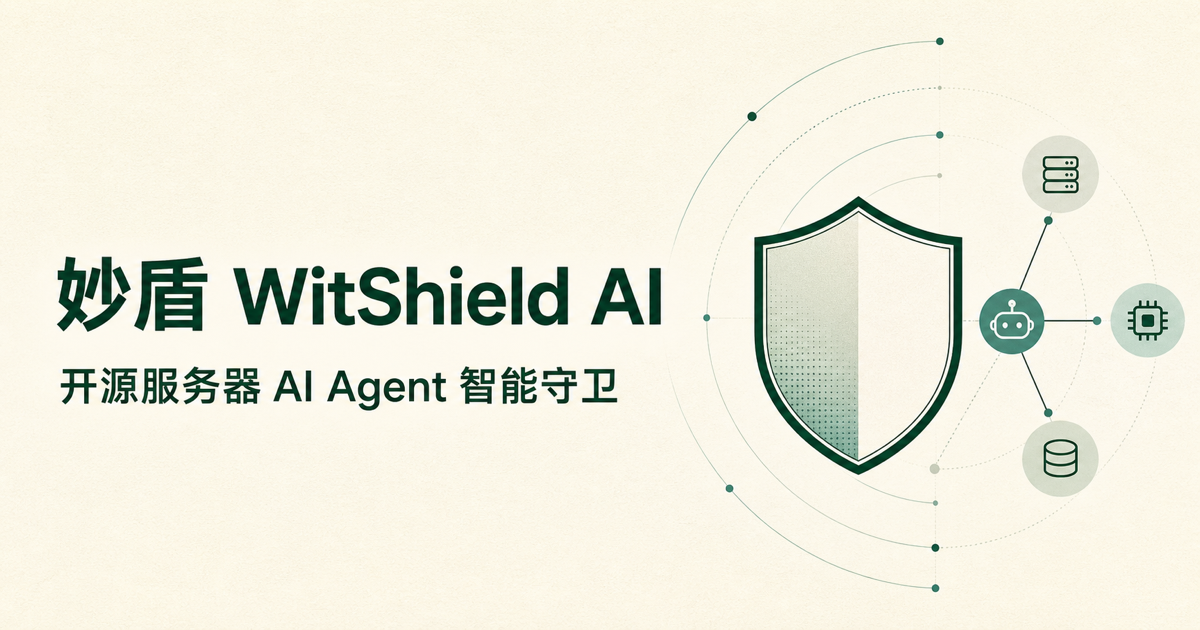
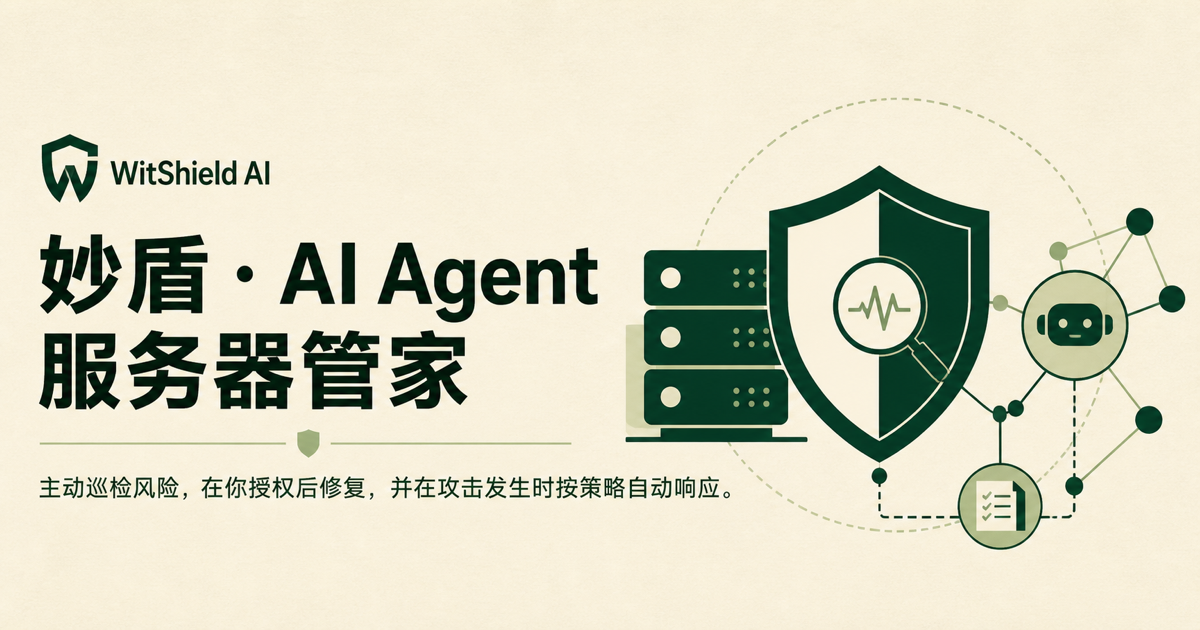
chore: adopt AI Agent server manager branding (#12)

diff --git a/web/app/witshield-app.tsx b/web/app/witshield-app.tsx
@@ -209,7 +209,7 @@ export function WitShieldApp() {
       <section className="workspace">
         <header className="topbar">
           <div>
-            <p className="eyebrow">开源服务器 AI Agent 智能守卫</p>
+            <p className="eyebrow">AI Agent 服务器管家</p>
             <h1>{sectionTitle(section)}</h1>
           </div>
           <div className="top-actions">
@@ -865,7 +865,7 @@ function AuthScreen({ mode, onReady }: { mode: 'setup' | 'login'; onReady: () =>
     catch (cause) { setError(cause instanceof Error ? cause.message : '操作失败'); }
     finally { setBusy(false); }
   }
-  return <main className="auth-shell"><section className="auth-card"><div className="auth-brand"><span className="brand-mark"><ShieldCheck size={20} /></span><div><strong>妙盾</strong><small>WitShield AI</small></div></div><p className="eyebrow">开源服务器 AI Agent 智能守卫</p><h1>{mode === 'setup' ? '创建唯一管理员' : '欢迎回来'}</h1><p className="auth-intro">{mode === 'setup' ? '控制台首版采用单管理员模式。完成初始化后即可连接第一台服务器。' : '登录你的自建妙盾控制台。'}</p><form onSubmit={submit}><label><span>管理员名称</span><input value={username} onChange={(event) => setUsername(event.target.value)} autoComplete="username" /></label><label><span>密码</span><input type="password" value={password} onChange={(event) => setPassword(event.target.value)} autoComplete={mode === 'setup' ? 'new-password' : 'current-password'} /></label>{mode === 'setup' && <><label><span>再次输入密码</span><input type="password" value={confirm} onChange={(event) => setConfirm(event.target.value)} autoComplete="new-password" /></label><label><span>初始化令牌（如安装程序要求）</span><input type="password" value={bootstrapToken} onChange={(event) => setBootstrapToken(event.target.value)} /></label></>}{error && <p className="form-error">{error}</p>}<button className="primary-button auth-submit" disabled={busy}>{busy ? <LoaderCircle className="spin" size={16} /> : <LockKeyhole size={16} />}{mode === 'setup' ? '完成安全初始化' : '登录控制台'}</button></form><small className="auth-footnote">凭据只保存在你的服务器；妙盾没有公共账号中心。</small></section></main>;
+  return <main className="auth-shell"><section className="auth-card"><div className="auth-brand"><span className="brand-mark"><ShieldCheck size={20} /></span><div><strong>妙盾</strong><small>WitShield AI</small></div></div><p className="eyebrow">AI Agent 服务器管家</p><h1>{mode === 'setup' ? '创建唯一管理员' : '欢迎回来'}</h1><p className="auth-intro">{mode === 'setup' ? '控制台首版采用单管理员模式。完成初始化后即可连接第一台服务器。' : '登录你的自建妙盾控制台。'}</p><form onSubmit={submit}><label><span>管理员名称</span><input value={username} onChange={(event) => setUsername(event.target.value)} autoComplete="username" /></label><label><span>密码</span><input type="password" value={password} onChange={(event) => setPassword(event.target.value)} autoComplete={mode === 'setup' ? 'new-password' : 'current-password'} /></label>{mode === 'setup' && <><label><span>再次输入密码</span><input type="password" value={confirm} onChange={(event) => setConfirm(event.target.value)} autoComplete="new-password" /></label><label><span>初始化令牌（如安装程序要求）</span><input type="password" value={bootstrapToken} onChange={(event) => setBootstrapToken(event.target.value)} /></label></>}{error && <p className="form-error">{error}</p>}<button className="primary-button auth-submit" disabled={busy}>{busy ? <LoaderCircle className="spin" size={16} /> : <LockKeyhole size={16} />}{mode === 'setup' ? '完成安全初始化' : '登录控制台'}</button></form><small className="auth-footnote">凭据只保存在你的服务器；妙盾没有公共账号中心。</small></section></main>;
 }
 
 function LoadingScreen() { return <main className="loading-screen"><span className="brand-mark"><ShieldCheck size={21} /></span><LoaderCircle className="spin" size={22} /><p>正在连接妙盾 Agent…</p></main>; }

diff --git a/web/app/layout.tsx b/web/app/layout.tsx
@@ -1,22 +1,24 @@
 import type { Metadata } from 'next';
 import './globals.css';
 
+const socialImage = 'https://raw.githubusercontent.com/witkitlab/witshield/main/web/public/og.png';
+
 export const metadata: Metadata = {
   metadataBase: new URL('https://github.com/witkitlab/witshield'),
-  title: '妙盾｜开源服务器 AI Agent 智能守卫',
-  description: '会巡检、会解释，经你授权才行动的开源服务器 AI Agent 智能守卫。',
+  title: '妙盾 · AI Agent 服务器管家',
+  description: '主动巡检风险，在你授权后修复，并在攻击发生时按策略自动响应。',
   openGraph: {
     type: 'website',
     locale: 'zh_CN',
-    title: '妙盾 WitShield AI',
-    description: '开源服务器 AI Agent 智能守卫',
-    images: [{ url: '/og.png', width: 1200, height: 630, alt: '妙盾 WitShield AI：开源服务器 AI Agent 智能守卫' }],
+    title: '妙盾 · AI Agent 服务器管家',
+    description: '主动巡检风险，在你授权后修复，并在攻击发生时按策略自动响应。',
+    images: [{ url: socialImage, width: 1200, height: 630, alt: '妙盾 · AI Agent 服务器管家' }],
   },
   twitter: {
     card: 'summary_large_image',
-    title: '妙盾 WitShield AI',
-    description: '开源服务器 AI Agent 智能守卫',
-    images: ['/og.png'],
+    title: '妙盾 · AI Agent 服务器管家',
+    description: '主动巡检风险，在你授权后修复，并在攻击发生时按策略自动响应。',
+    images: [socialImage],
   },
 };
 

diff --git a/web/app/witshield-app.test.tsx b/web/app/witshield-app.test.tsx
@@ -9,6 +9,7 @@ describe('WitShieldApp', () => {
     render(<WitShieldApp />);
 
     expect(await screen.findByText('服务器安全概览')).toBeInTheDocument();
+    expect(screen.getByText('AI Agent 服务器管家')).toBeInTheDocument();
     expect(screen.getByText('今日安全状态')).toBeInTheDocument();
 
     const findingButtons = screen.getAllByRole('button', { name: /SSH 允许密码登录/ });

diff --git a/README.md b/README.md
@@ -1,6 +1,6 @@
-# 妙盾（开源服务器 AI Agent 智能守卫）
+# 妙盾 · AI Agent 服务器管家
 
-> **WitShield AI**：持续巡检、解释风险，经授权修复并按策略响应攻击的开源服务器智能 Agent。
+> **WitShield AI**：主动巡检风险，在你授权后修复，并在攻击发生时按策略自动响应。
 
 [English](README.en.md) · [架构](docs/architecture.md) · [安全模型](docs/threat-model.md) · [配置参考](docs/configuration.md)
 
